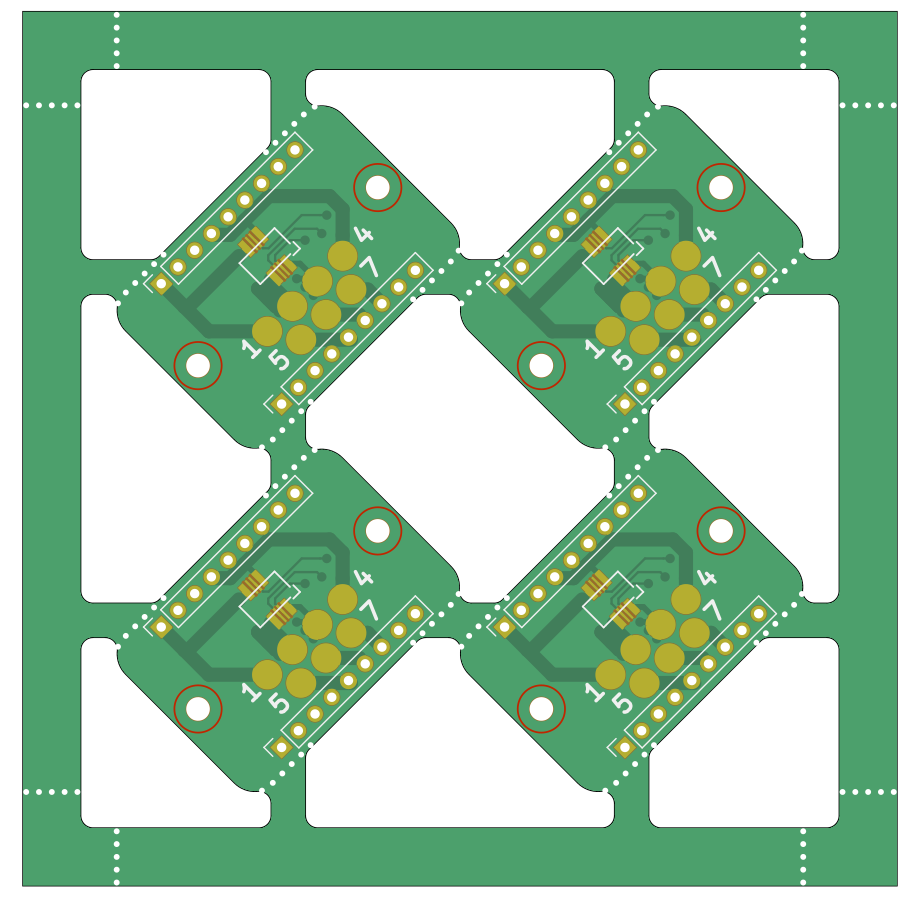
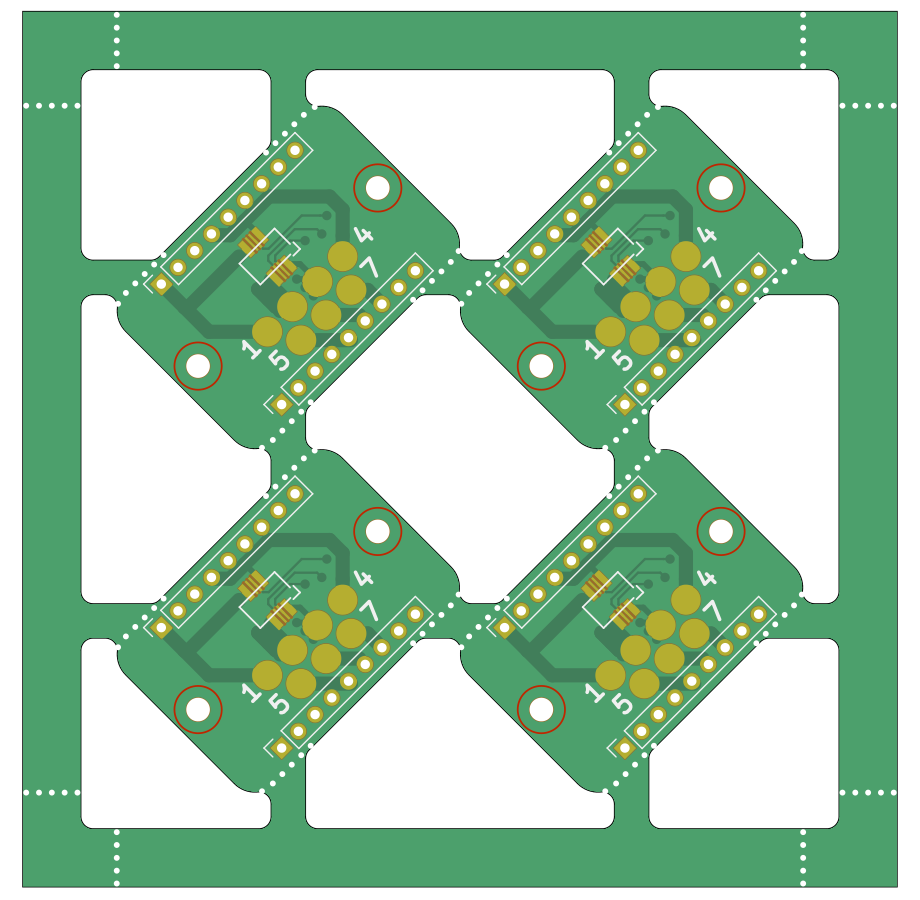
Do not rely on tabs during frame construction

diff --git a/kikit/panelize.py b/kikit/panelize.py
@@ -703,12 +703,14 @@ class Panel:
                                 rotation, netRenamer, refRenamer, placementClass)
         return self.substrates[substrateCount:]
 
-    def makeFrame(self, width):
+    def makeFrame(self, width, hspace, vspace):
         """
-        Build a frame around the board. Return frame cuts
+        Build a frame around the board. Specify width and spacing between the
+        boards substrates and the frame. Return frame cuts
         """
-        frameInnerRect = expandRect(self.boardSubstrate.boundingBox(), -SHP_EPSILON)
-        frameOuterRect = expandRect(frameInnerRect, width)
+        frameInnerRect = expandRect(shpBoxToRect(self.boardsBBox()),
+            hspace - SHP_EPSILON, vspace + SHP_EPSILON)
+        frameOuterRect = expandRect(frameInnerRect, width + SHP_EPSILON)
         outerRing = rectToRing(frameOuterRect)
         innerRing = rectToRing(frameInnerRect)
         polygon = Polygon(outerRing, [innerRing])
@@ -721,11 +723,11 @@ class Panel:
         frameCutsH = self.makeFrameCutsH(innerArea, frameInnerRect, frameOuterRect)
         return chain(frameCutsV, frameCutsH)
 
-    def makeTightFrame(self, width, slotwidth):
+    def makeTightFrame(self, width, slotwidth, hspace, vspace):
         """
-        Build a full frame with board perimeter milled out
+        Build a full frame with board perimeter milled out.
         """
-        self.makeFrame(width)
+        self.makeFrame(width, hspace, vspace)
         boardSlot = GeometryCollection()
         for s in self.substrates:
             boardSlot = boardSlot.union(s.exterior())

diff --git a/kikit/panelize_ui_impl.py b/kikit/panelize_ui_impl.py
@@ -421,10 +421,11 @@ def buildFraming(preset, panel):
             panel.makeRailsLr(preset["width"])
             return []
         if type == "frame":
-            cuts = panel.makeFrame(preset["width"])
+            cuts = panel.makeFrame(preset["width"], preset["hspace"], preset["vspace"])
             return cuts if preset["cuts"] else []
         if type == "tightframe":
-            panel.makeTightFrame(preset["width"], preset["slotwidth"])
+            panel.makeTightFrame(preset["width"], preset["slotwidth"],
+                preset["hspace"], preset["vspace"])
             panel.boardSubstrate.removeIslands()
             return []
         raise PresetError(f"Unknown type '{type}' of frame specification.")

diff --git a/kikit/common.py b/kikit/common.py
@@ -203,6 +203,10 @@ def shpBBoxExpand(box, x, y=None):
         y = x
     return (box[0] - x, box[1] - y, box[2] + x, box[3] + y)
 
+def shpBoxToRect(box):
+    box = list([int(x) for x in box])
+    return wxRect(box[0], box[1], box[2] - box[0], box[3] - box[1])
+
 def isLinestringCyclic(line):
     c = line.coords
     return c[0] == c[-1] or isinstance(line, LinearRing)

diff --git a/doc/panelization.md b/doc/panelization.md
@@ -323,9 +323,10 @@ Inherit text properties from a board specified by a properties
 
 #### `makeFrame`
 ```
-makeFrame(self, width)
+makeFrame(self, width, hspace, vspace)
 ```
-Build a frame around the board. Return frame cuts
+Build a frame around the board. Specify width and spacing between the
+boards substrates and the frame. Return frame cuts
 
 #### `makeFrameCutsH`
 ```
@@ -375,9 +376,9 @@ Adds a rail to top and bottom.
 
 #### `makeTightFrame`
 ```
-makeTightFrame(self, width, slotwidth)
+makeTightFrame(self, width, slotwidth, hspace, vspace)
 ```
-Build a full frame with board perimeter milled out
+Build a full frame with board perimeter milled out.
 
 #### `makeVCuts`
 ```
